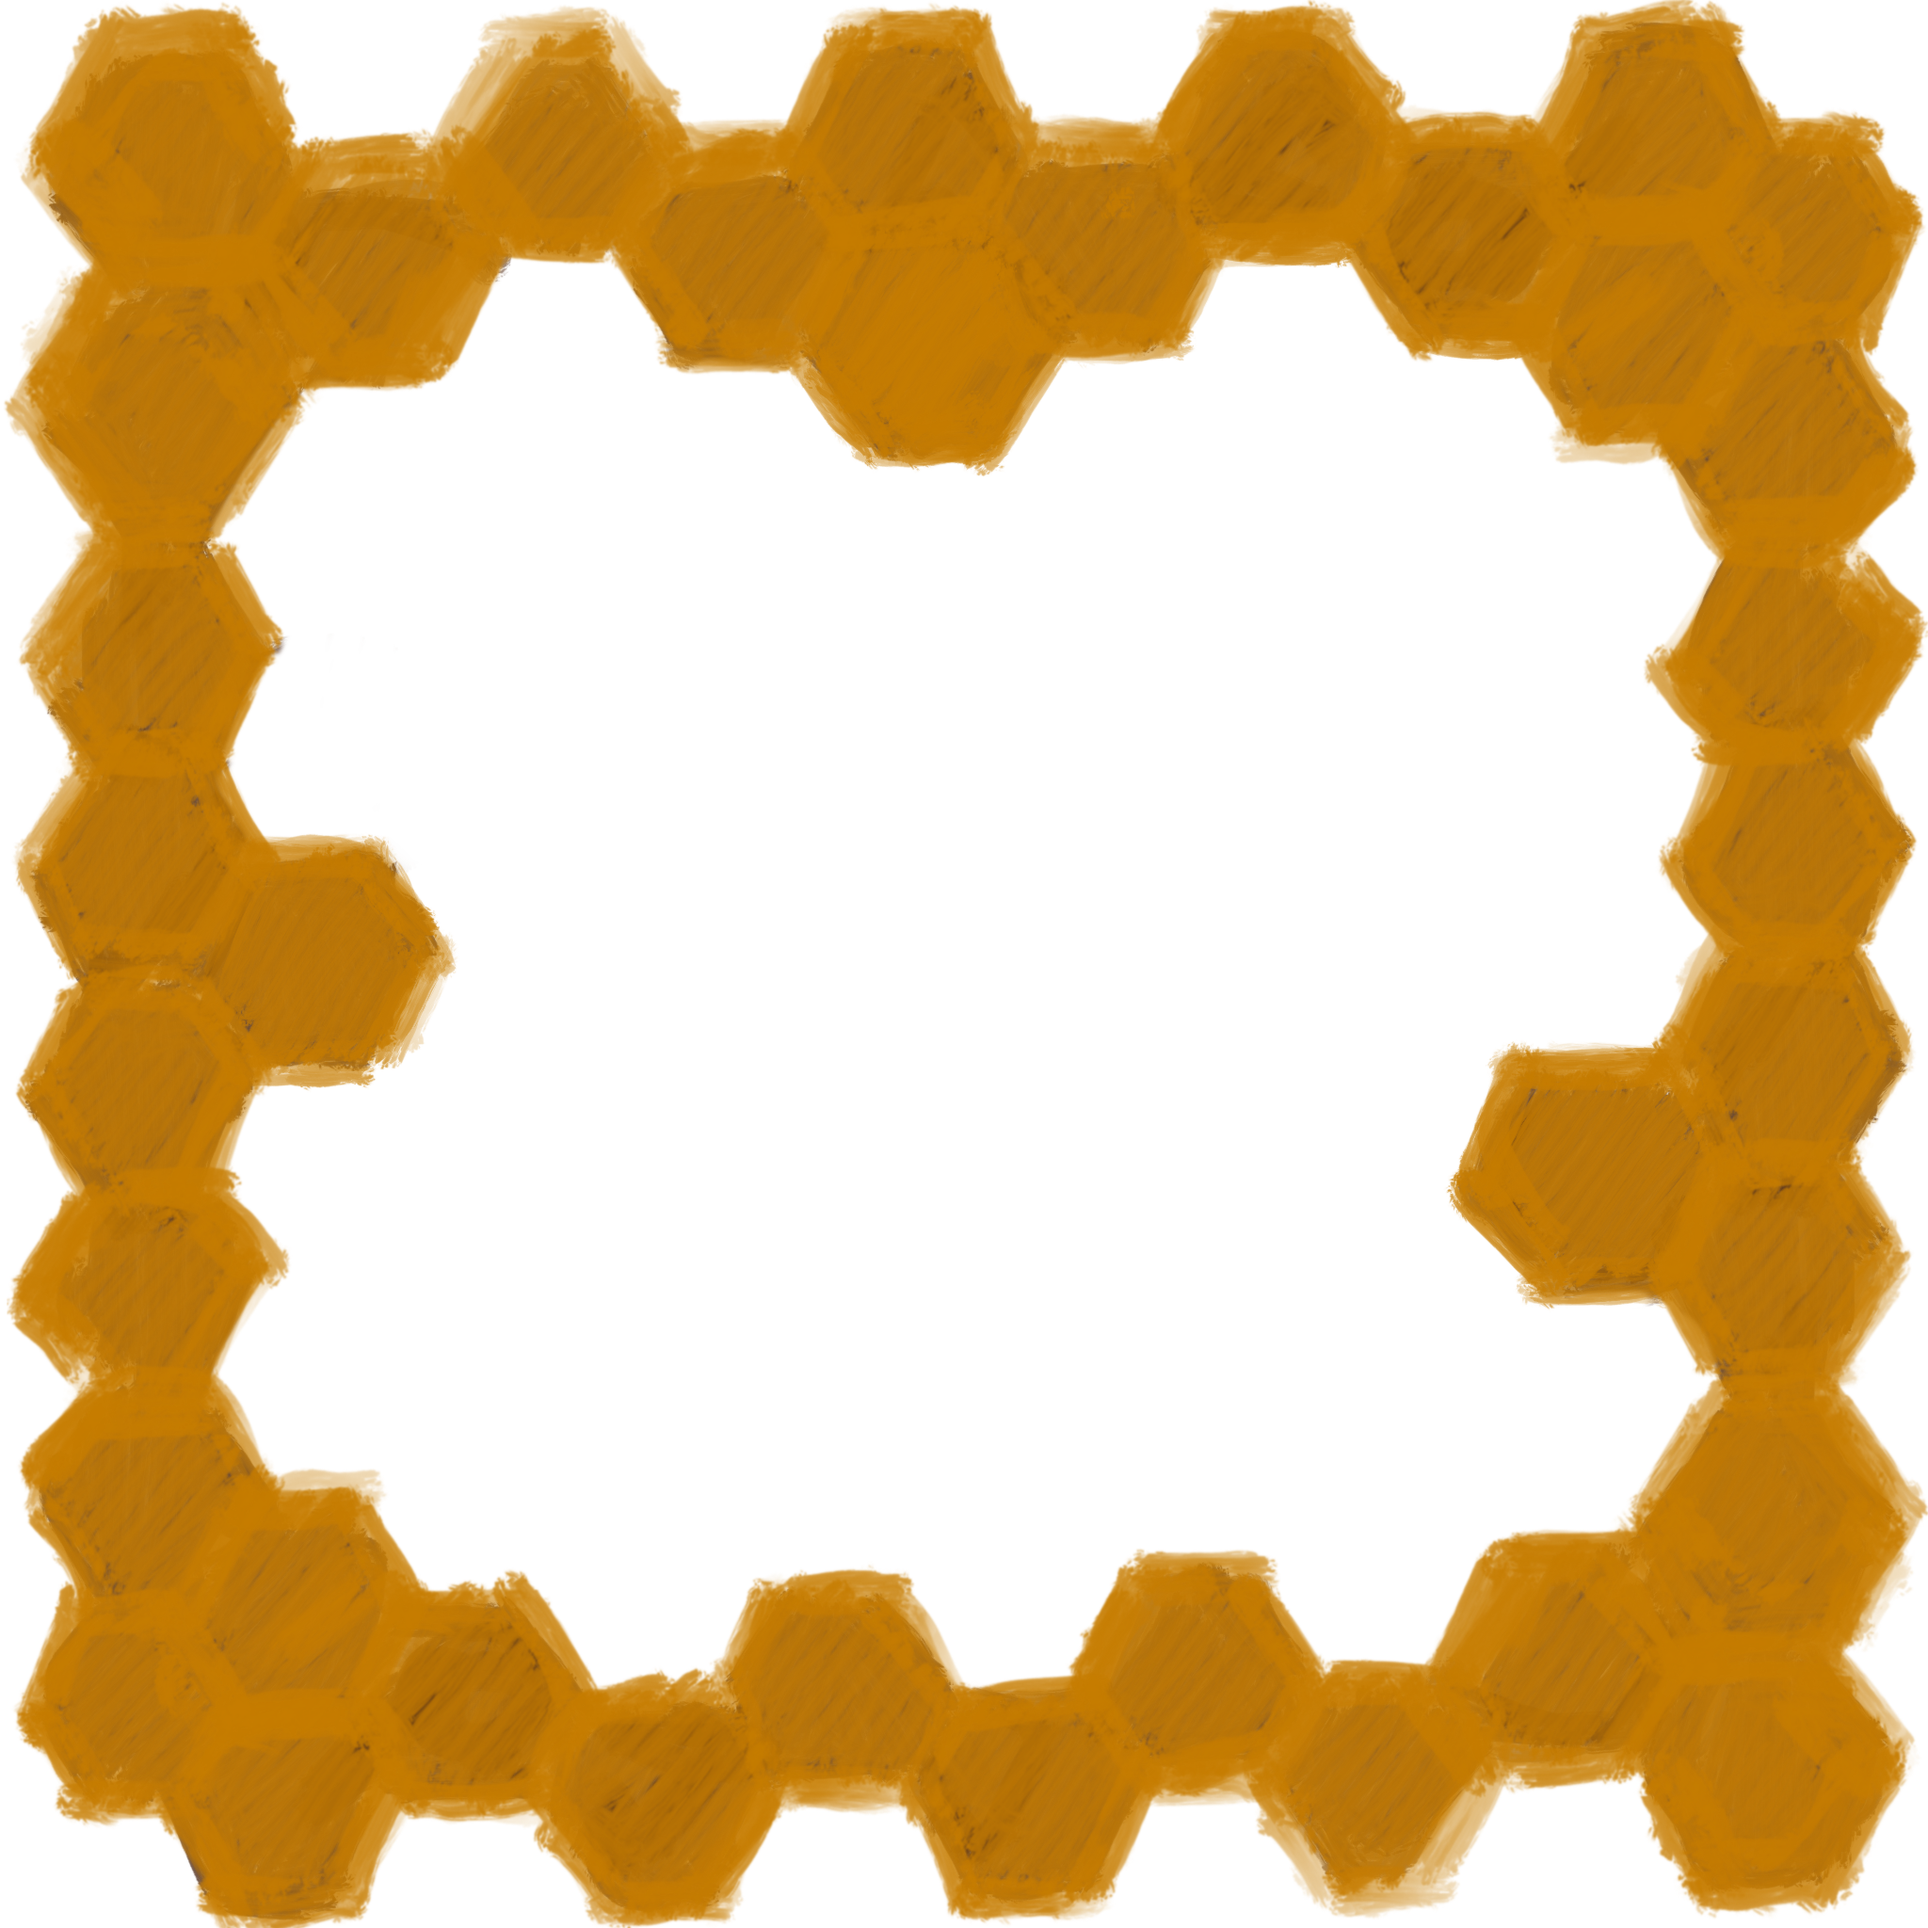
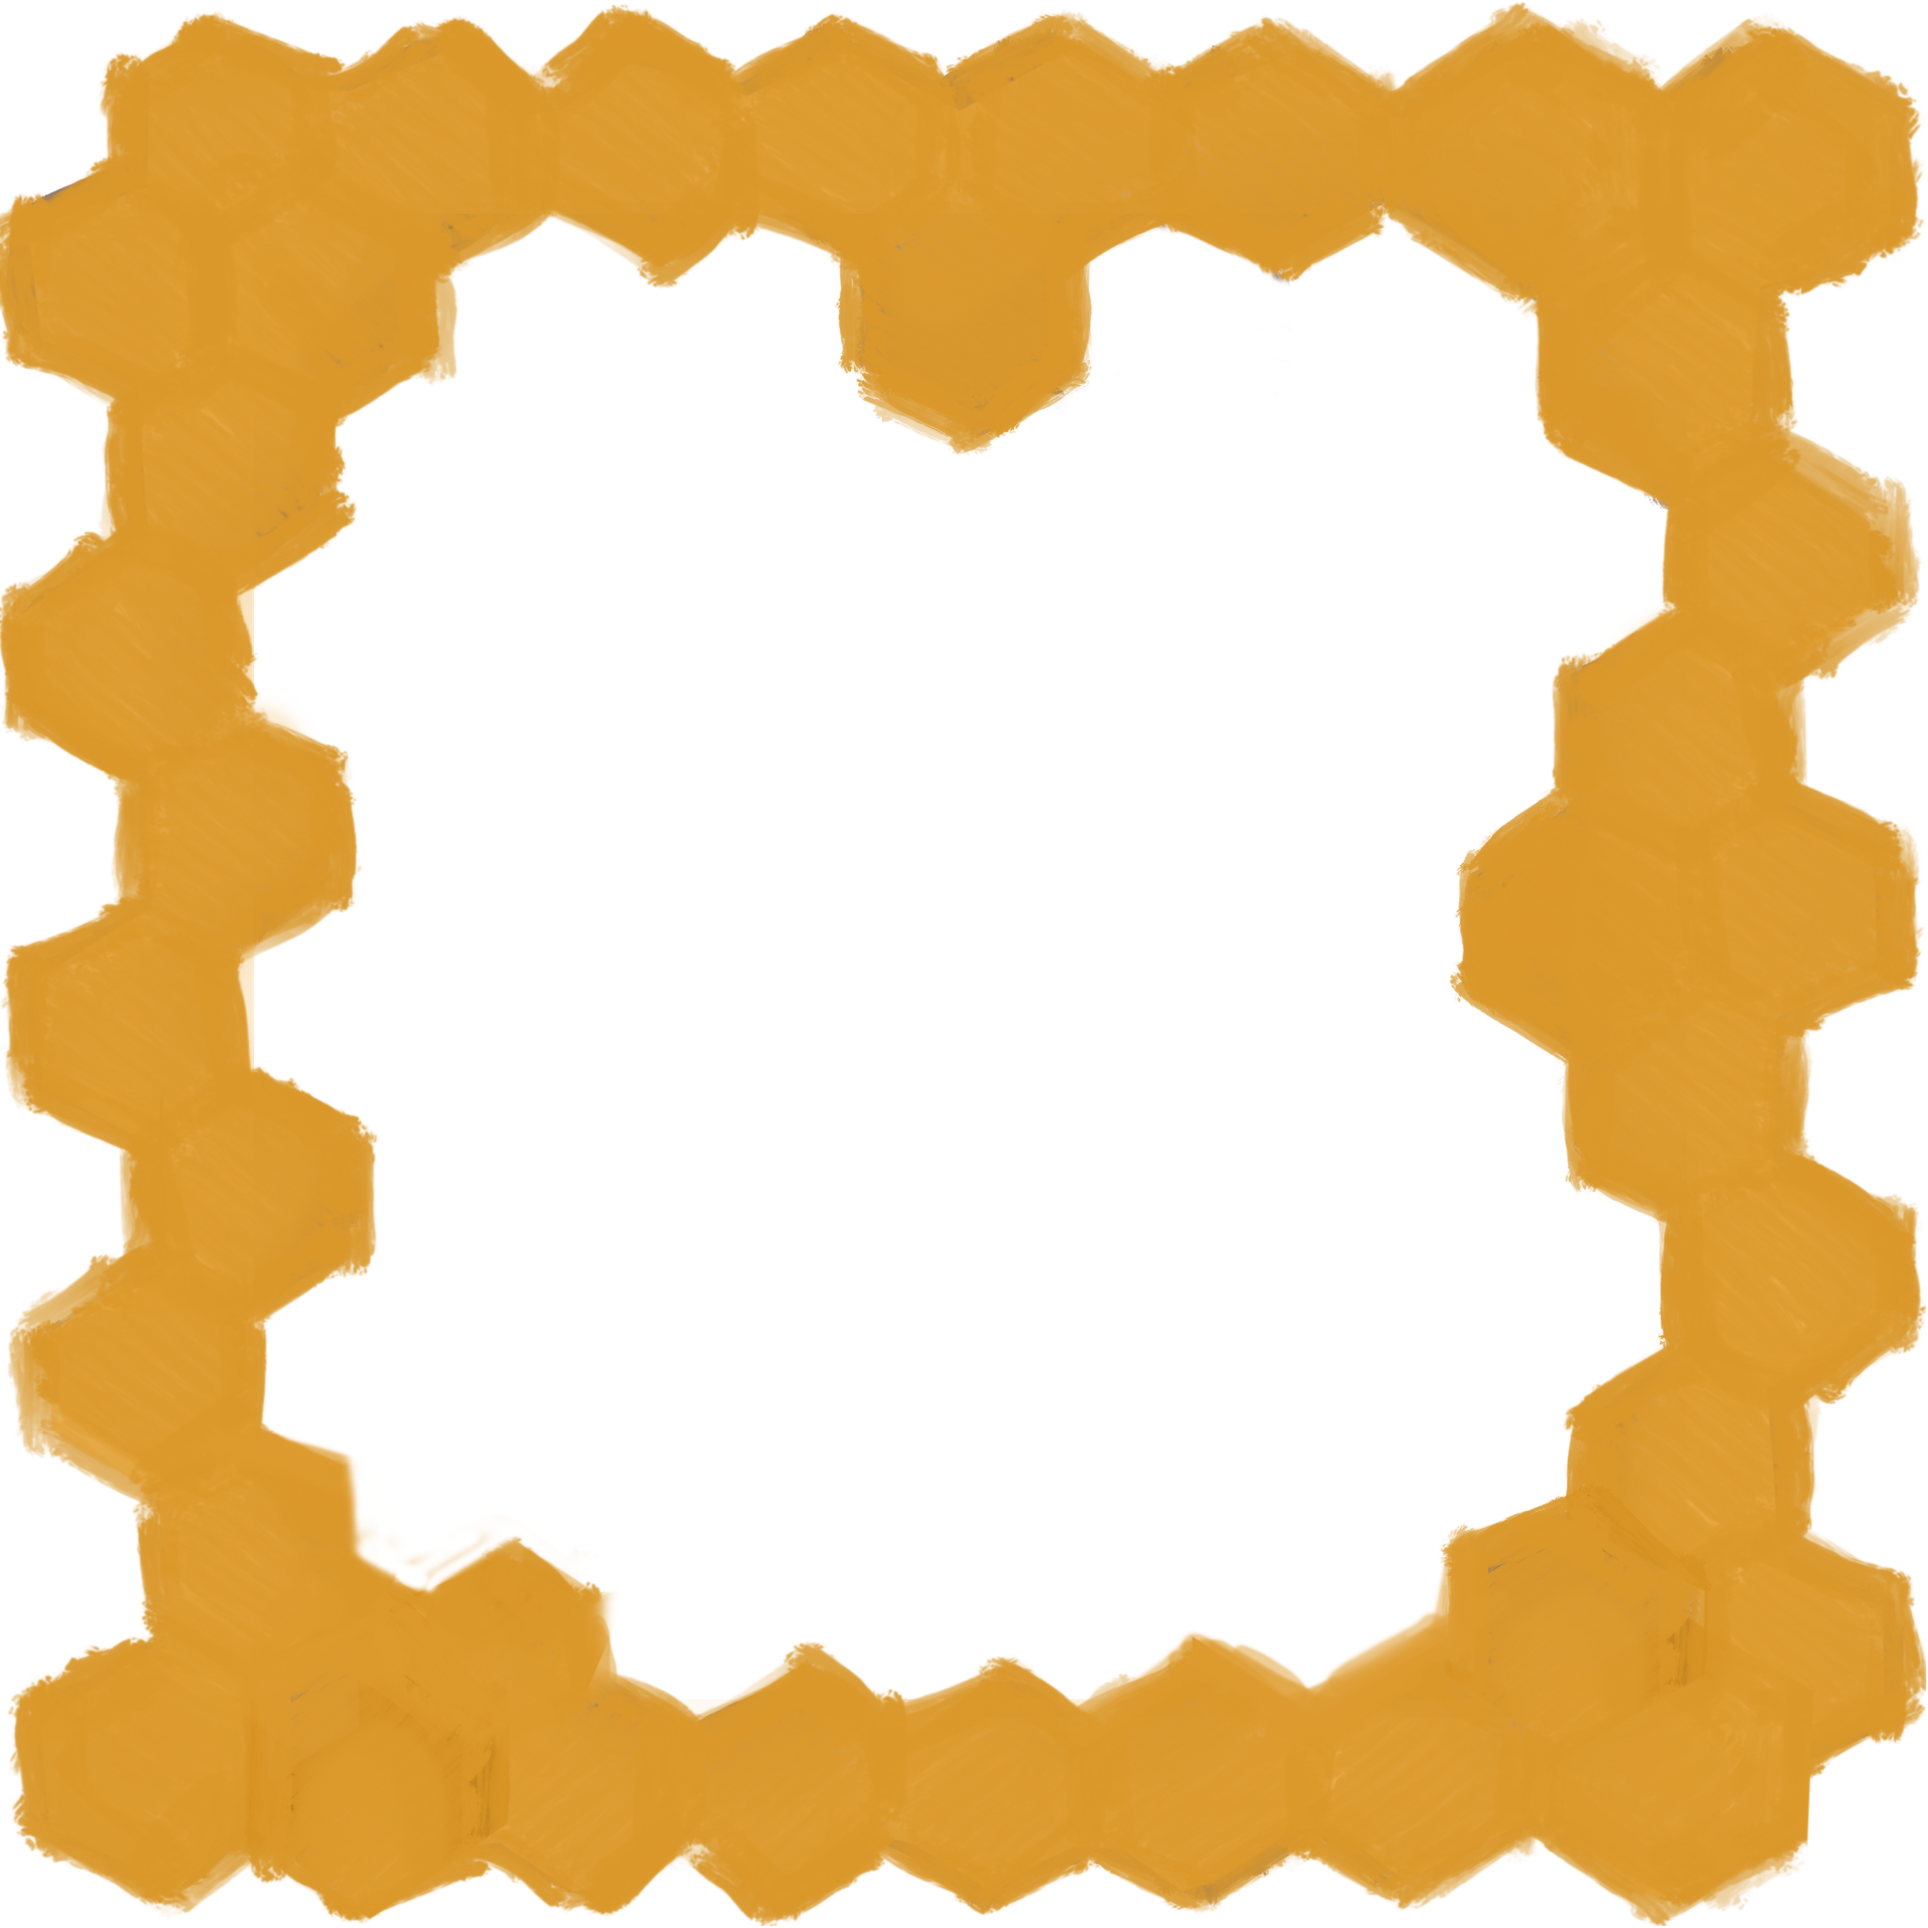
alternate hex window

diff --git a/index.html b/index.html
@@ -78,7 +78,7 @@
         </div>
         <p>Sometimes bees have to make important decisions that affect the whole colony like where to move to build a new hive. Scouts investigate the hive site options and dance the directions to their sisters to tell them where to go check.</p>
         <div class="inside">
-          <img src="./images/hexwindow.png" alt="">
+          <img src="./images/hexwindow2.png" alt="">
           <iframe class="playable" src="./dance_direct.html" allowtransparency="true"></iframe> <!-- this should actually be the inside/outside graphic -->
         </div>
         <br>
@@ -98,6 +98,5 @@
 </body>
 
 <!-- Put scripts here! -->
-<script src="js/Mouse.js"></script>
 
 </html>

diff --git a/dance_direct.js b/dance_direct.js
@@ -45,8 +45,8 @@ function AutonomousBee(x, y){
 		ctx.translate(self.x, self.y);
 		ctx.rotate(self.rotation);
 
-		self.waggle += 1;
-		var r = Math.sin(self.waggle)*0.05;
+		self.waggle += 1; // this is the jitter for the sisters
+		var r = Math.sin(self.waggle)*0.03;
 		ctx.rotate(r);
 		
 
@@ -55,7 +55,7 @@ function AutonomousBee(x, y){
 		ctx.restore();
 	};
 
-	self.fly = function(rotation){
+	self.fly = function(rotation){ // need to add animation
 		self.rotation = rotation;
 		self.speed = 5;
 	}
